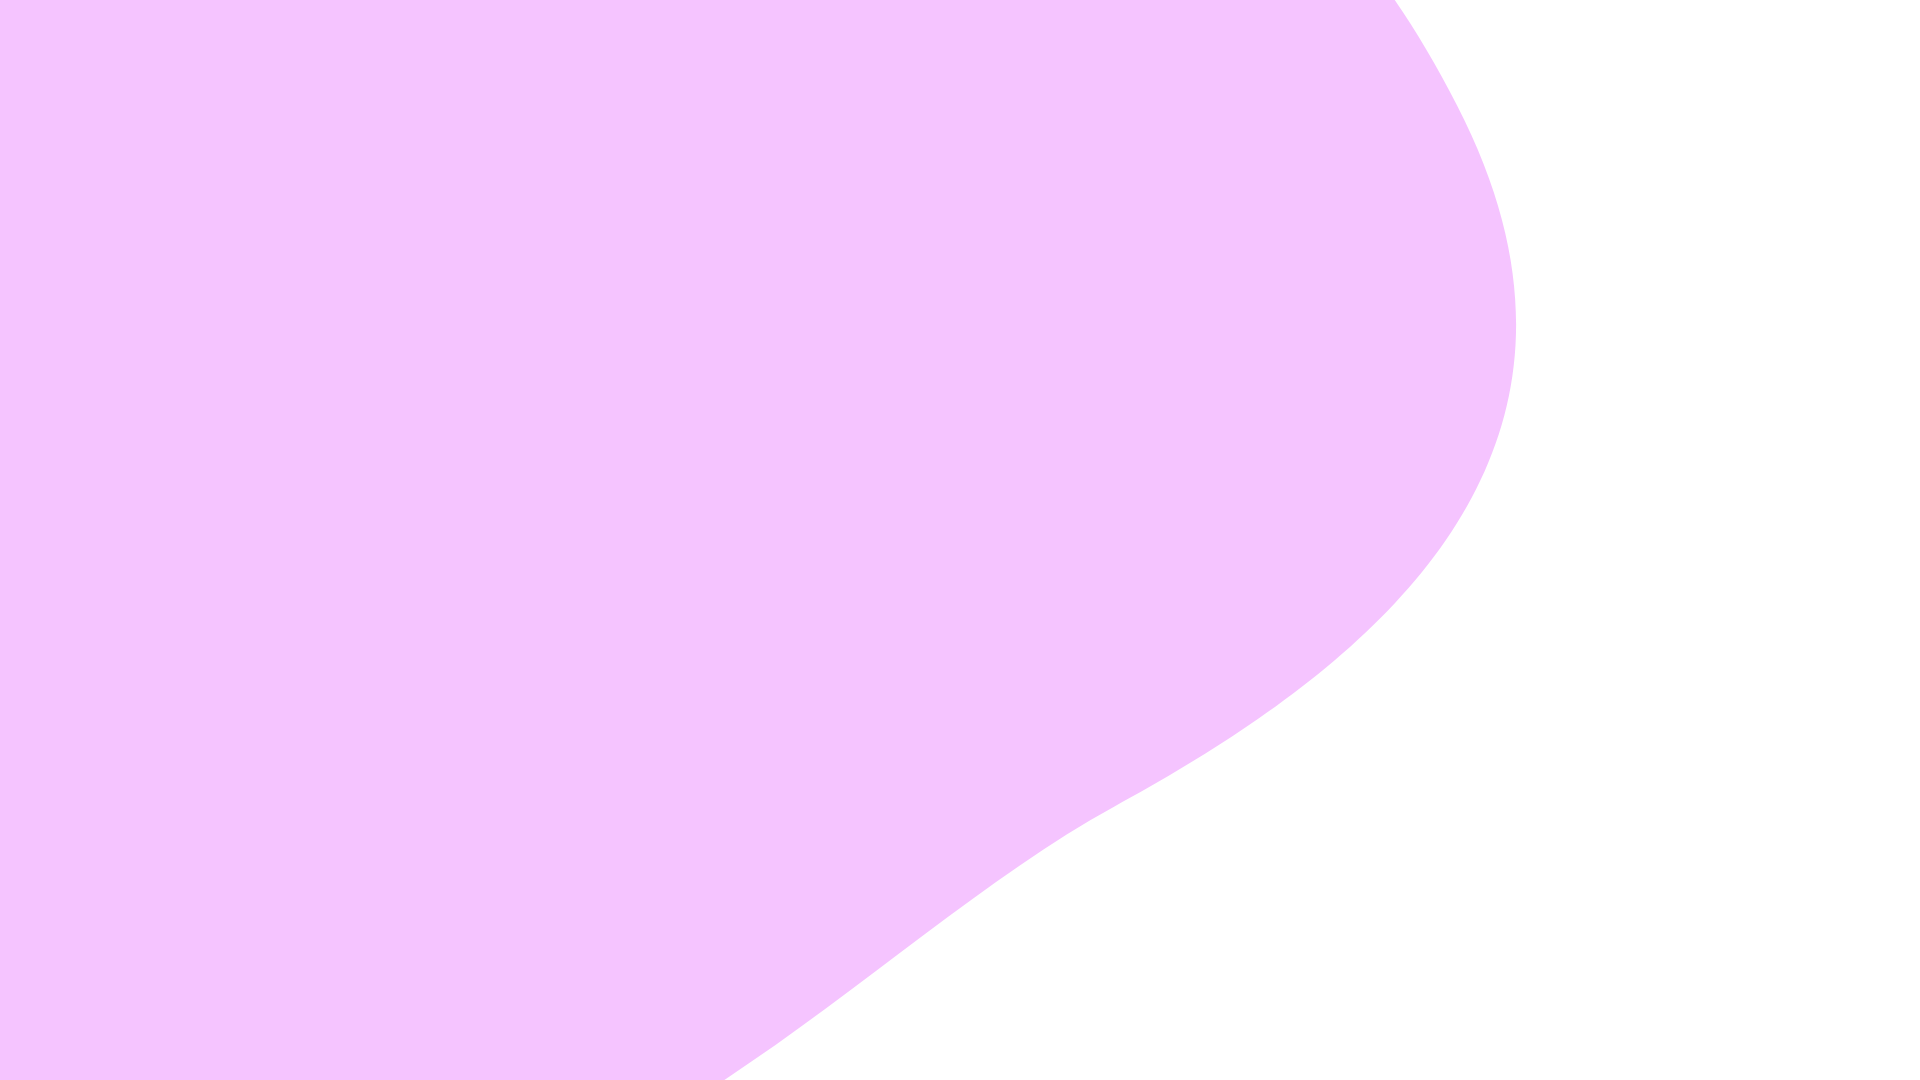
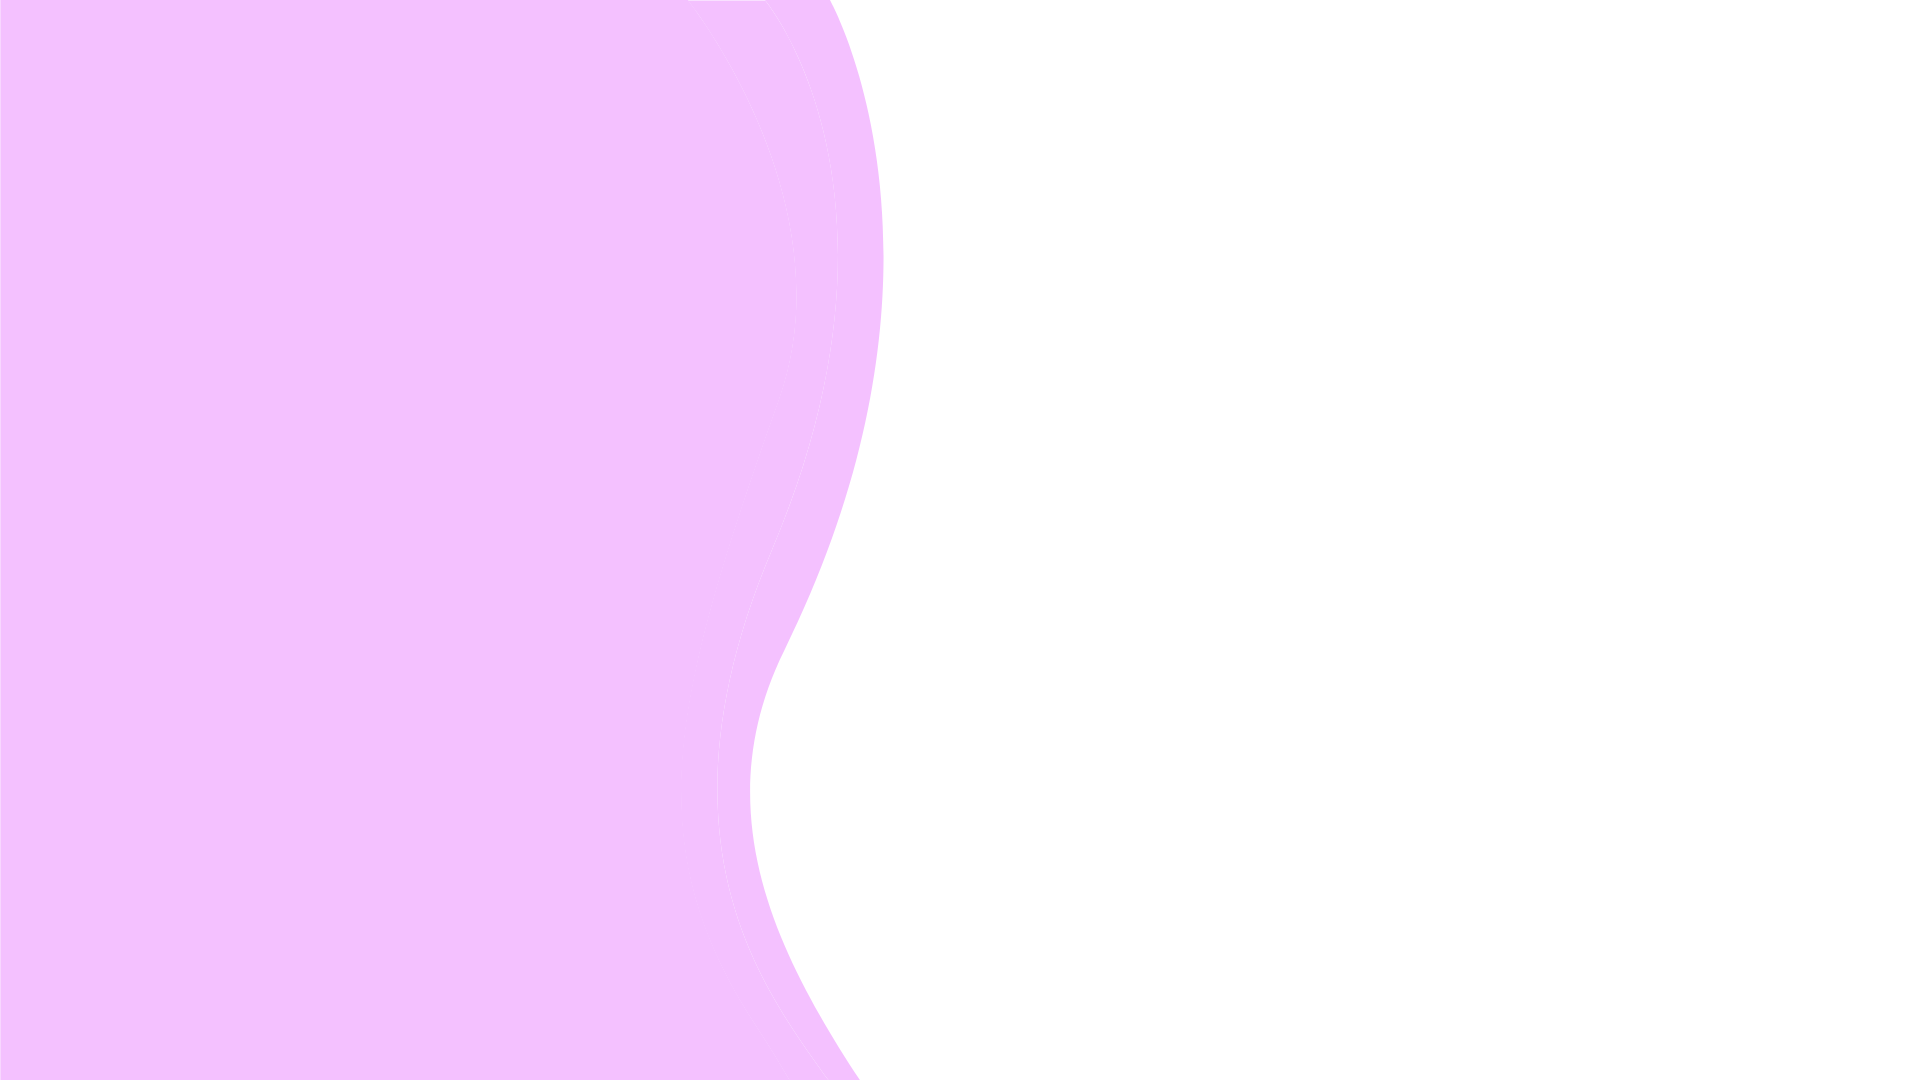
background arreglado

Changed region(s): [[0.375, 0.0, 0.8125, 1.0]]

diff --git a/proyecto/src/app.css b/proyecto/src/app.css
@@ -4,5 +4,5 @@
 
 body{
     background-image: url("/public/img/background.png");
-    background-repeat: no-repeat;
+    background-repeat: repeat;
 }
